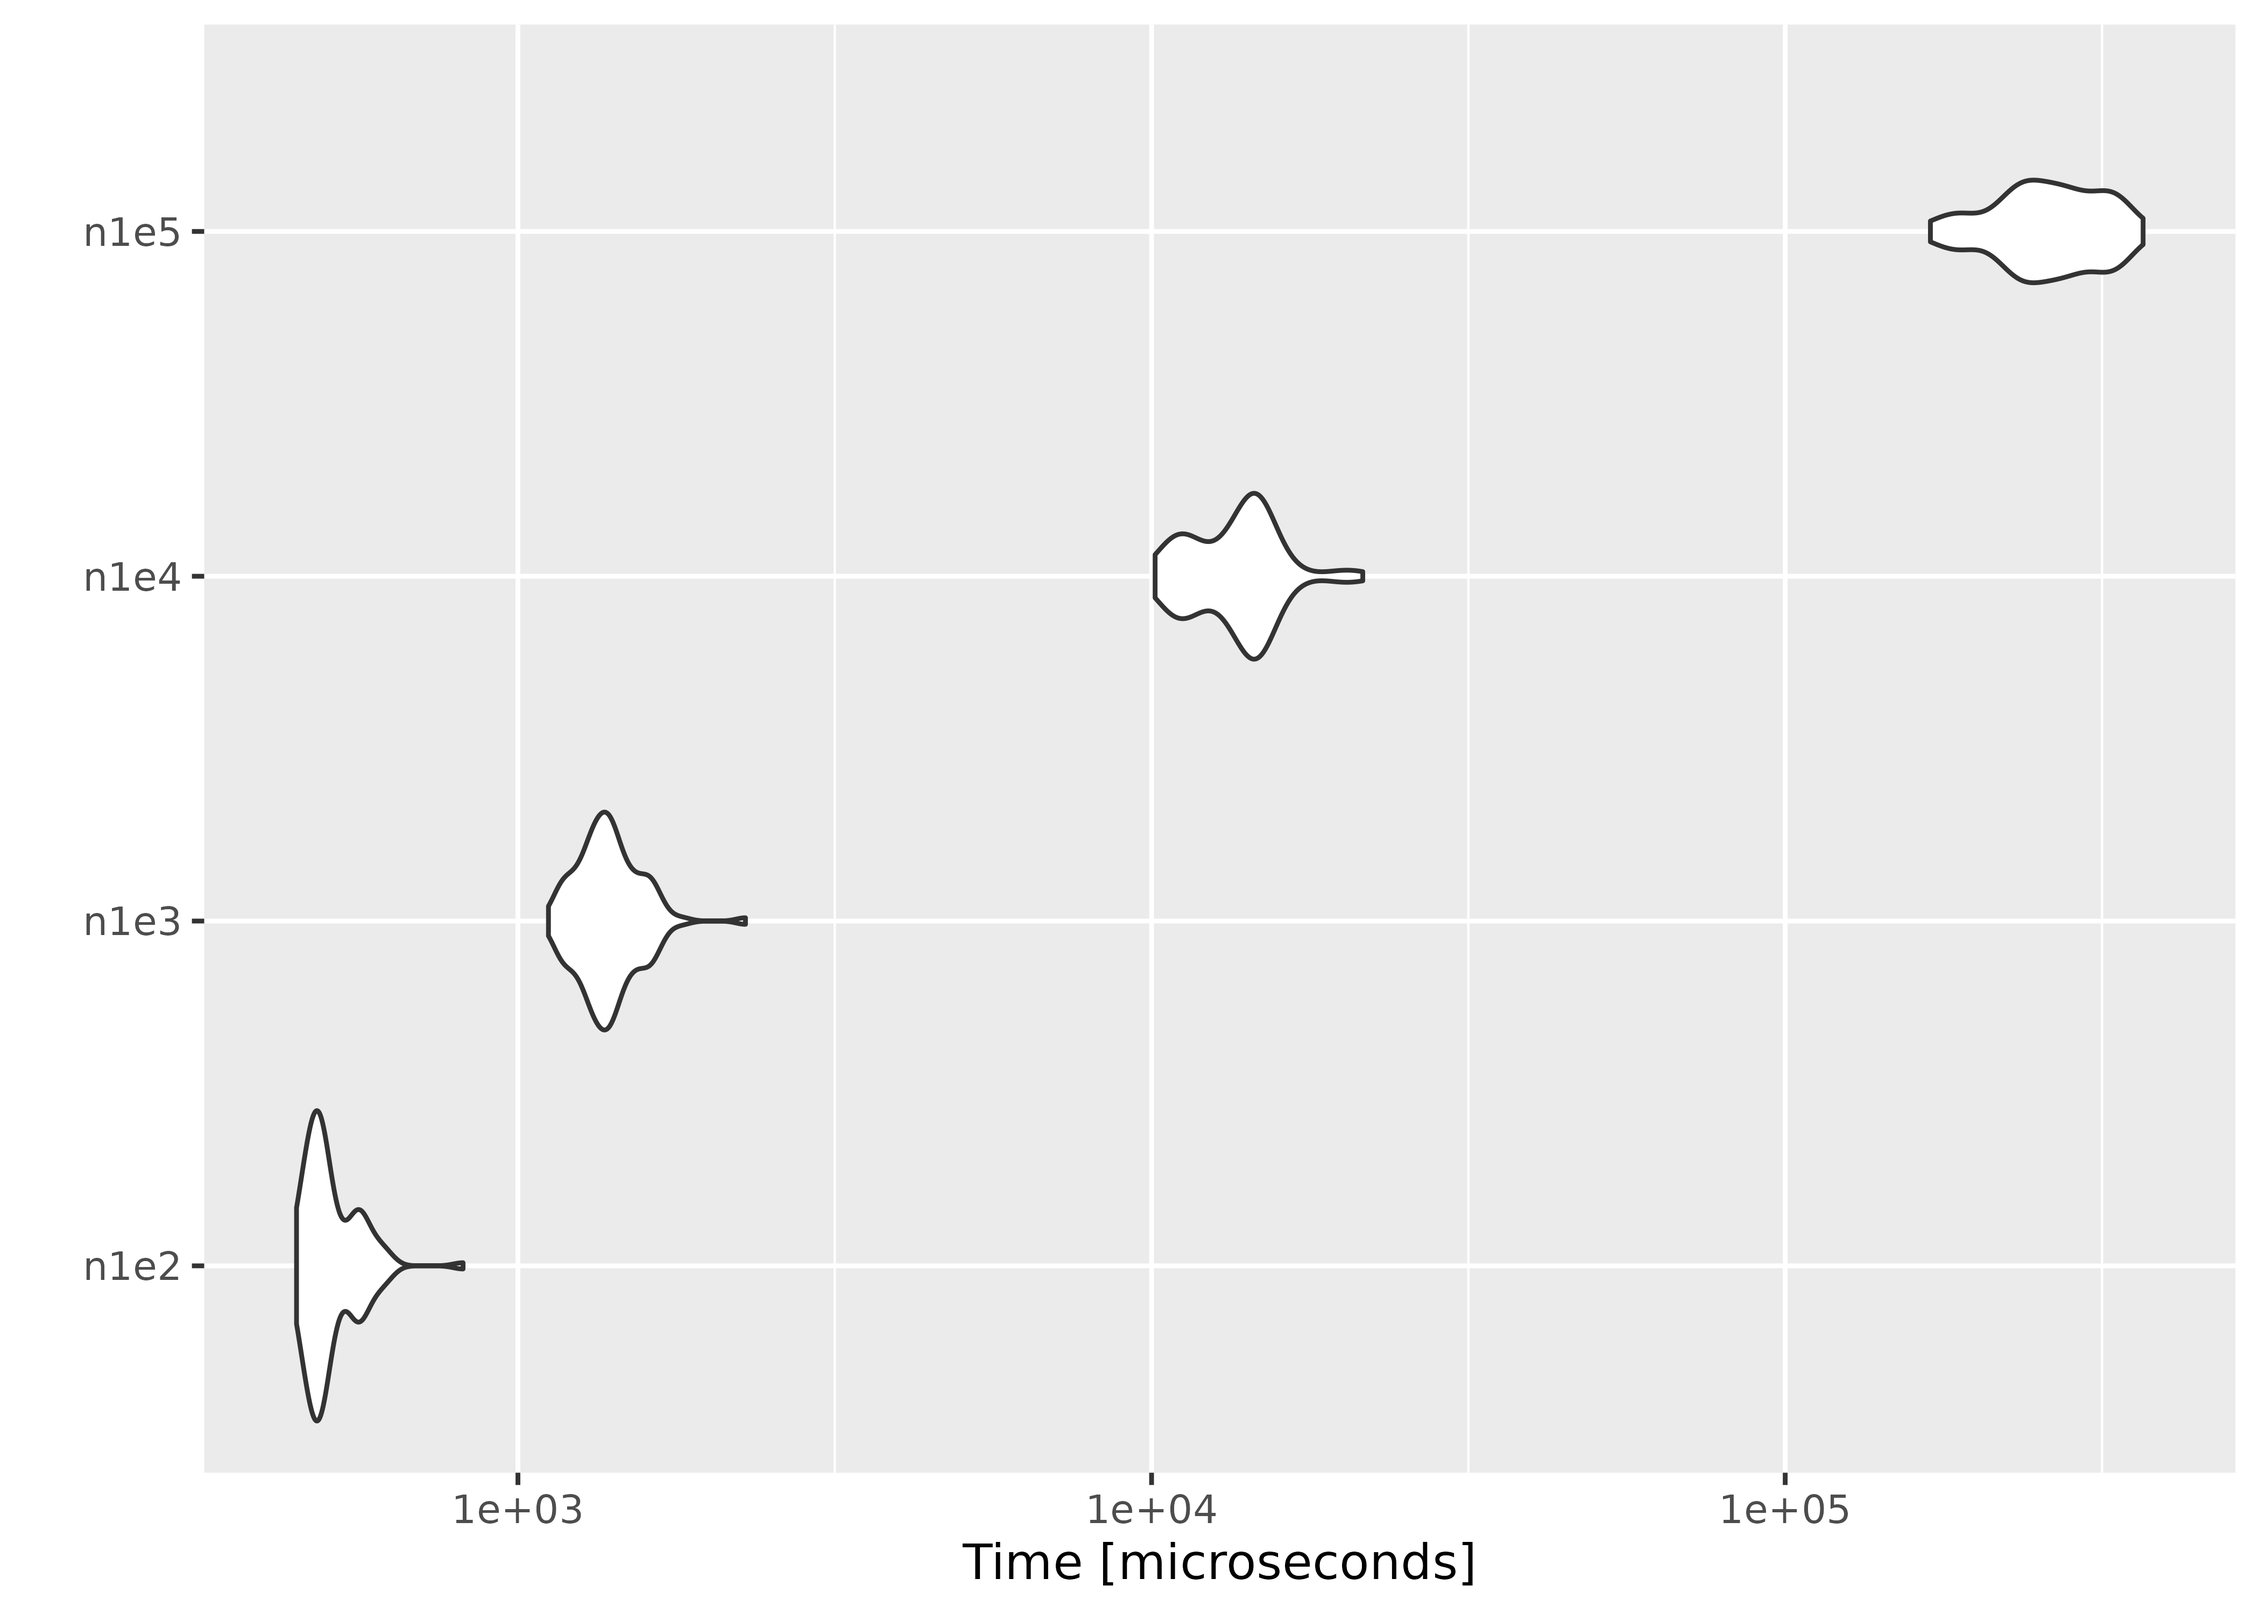
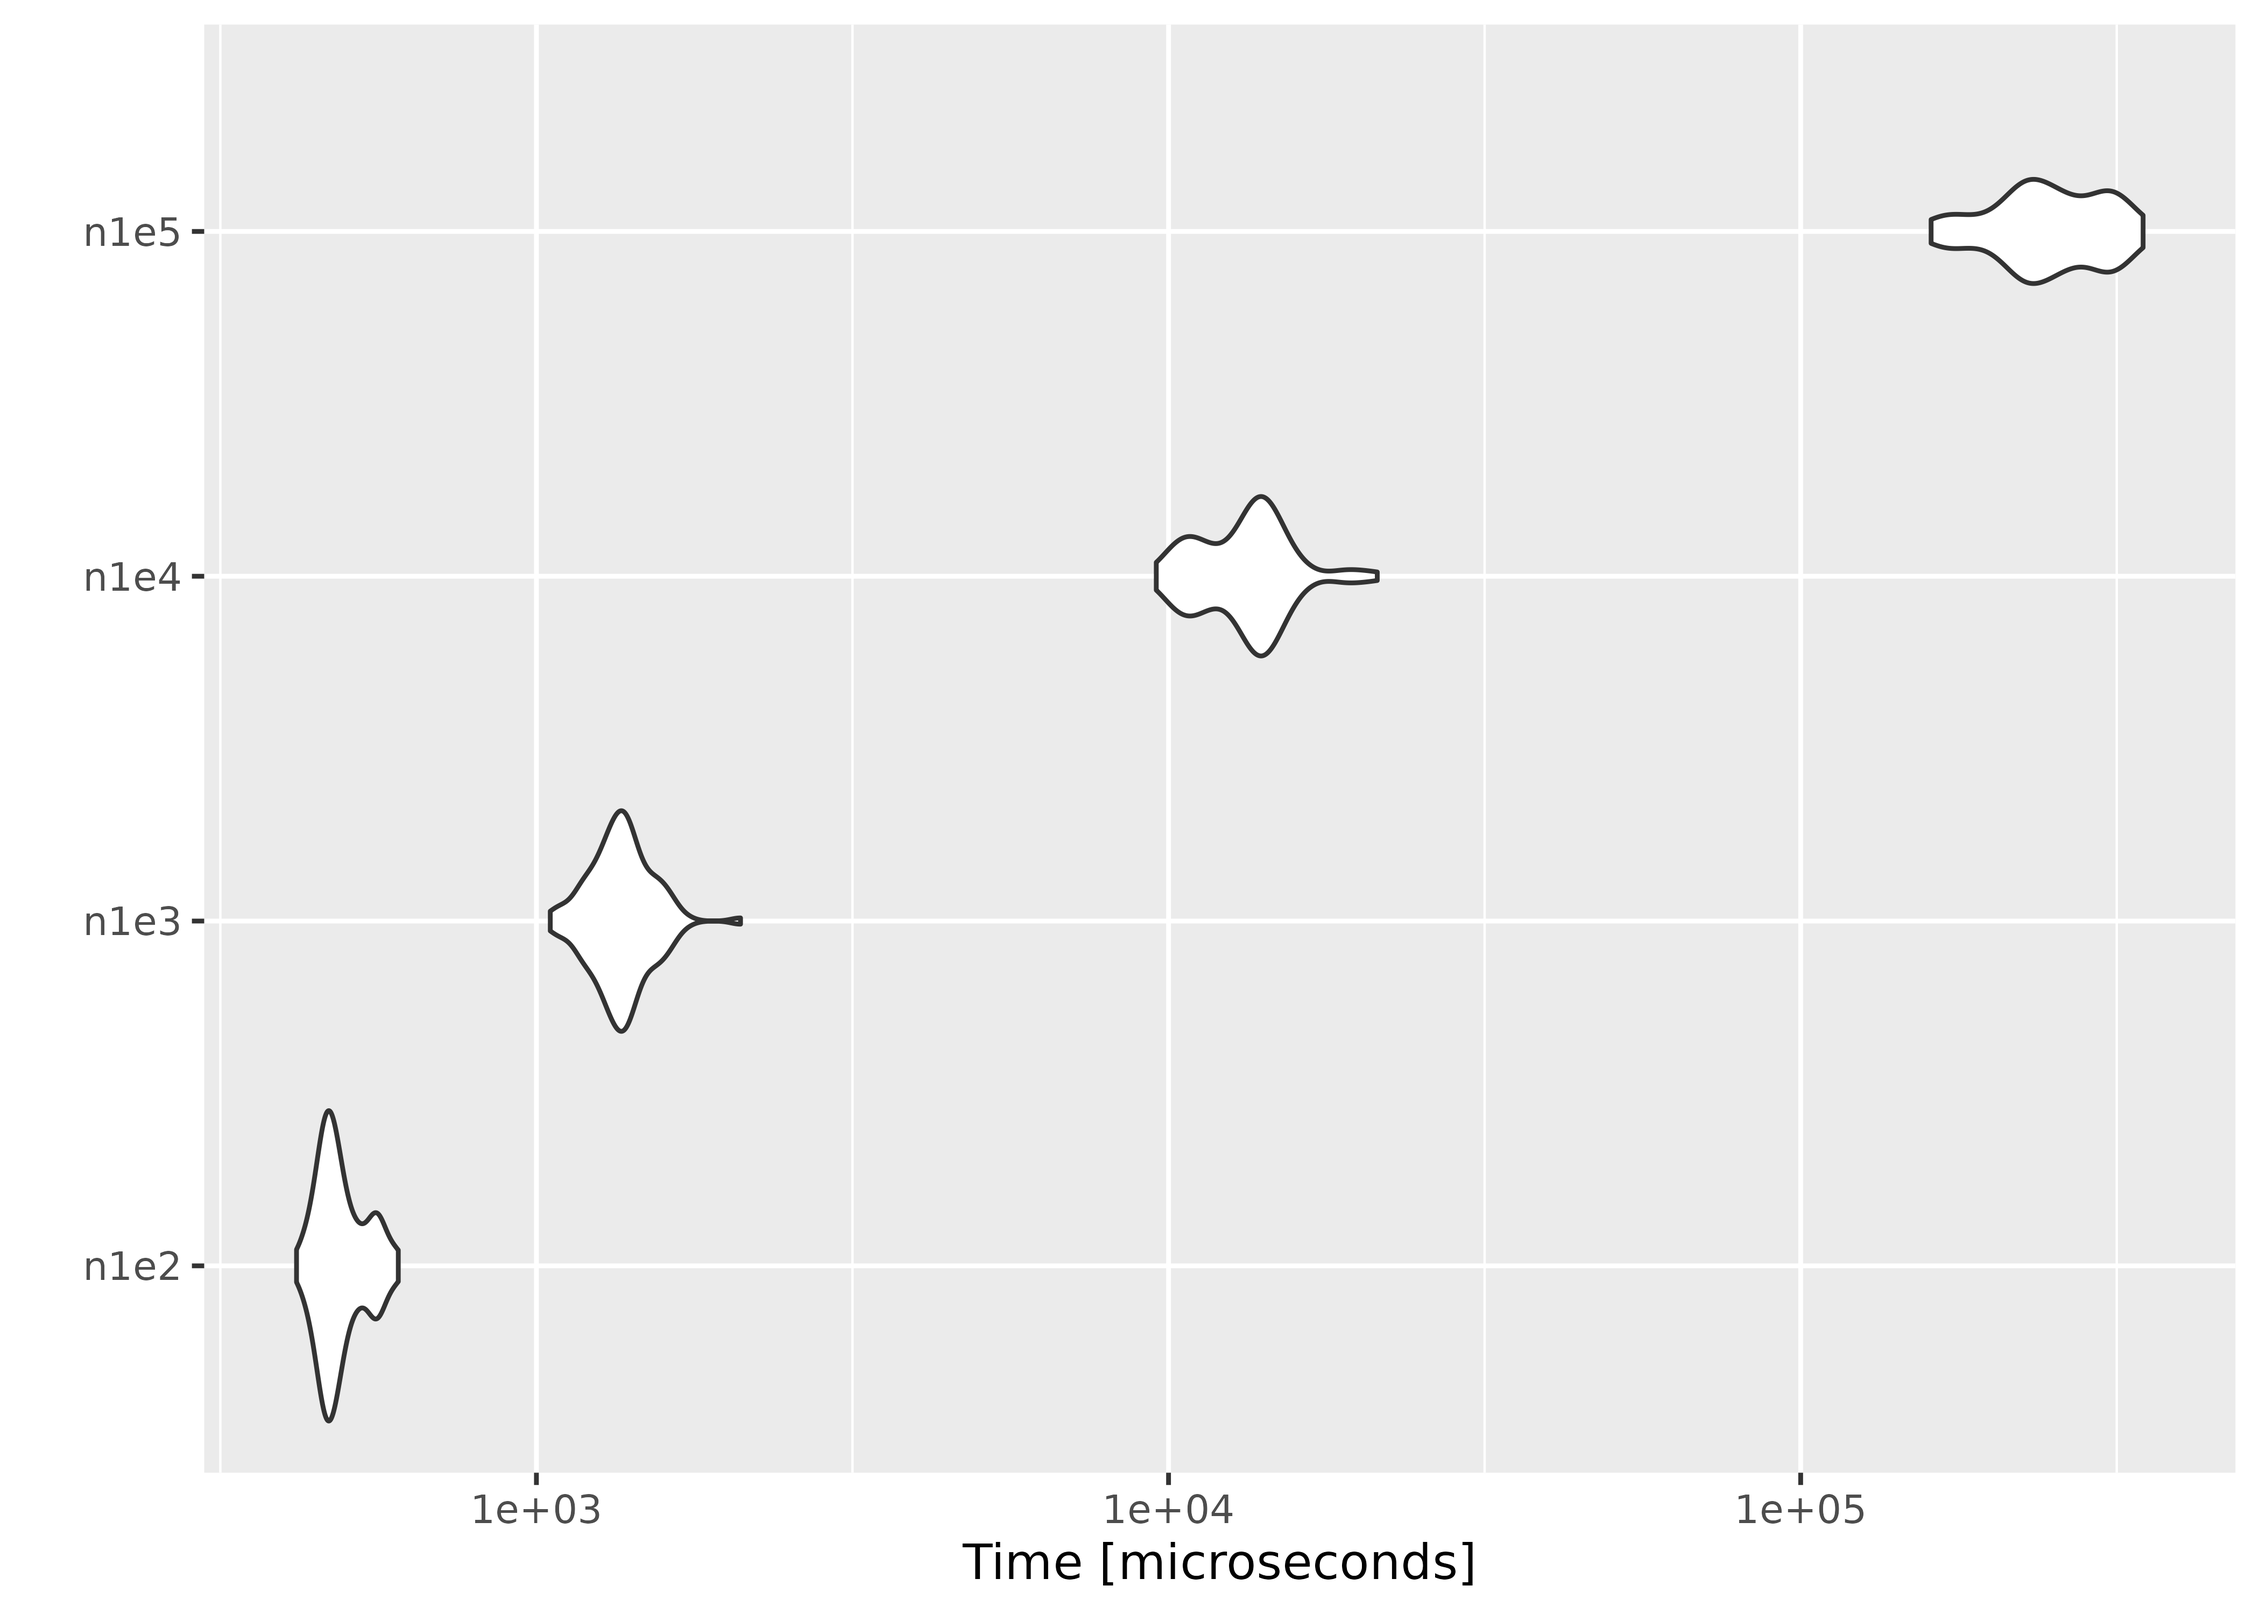
Deploying to gh-pages from @ ropensci/melt@6d5e894c2c8634a9614fa12e32527fdd4f16788b 🚀

diff --git a/index.html b/index.html
@@ -97,26 +97,26 @@
       </header><div class="row">
   <div class="contents col-md-9">
 <div class="section level1">
-<div class="page-header"><h1 id="melt---multiple-empirical-likelihood-tests-">melt - Multiple Empirical Likelihood Tests <a href="https://docs.ropensci.org/melt/"><img src="reference/figures/logo.png" align="right" height="139"></a>
-<a class="anchor" aria-label="anchor" href="#melt---multiple-empirical-likelihood-tests-"></a>
+<div class="page-header"><h1 id="melt">melt<a class="anchor" aria-label="anchor" href="#melt"></a>
 </h1></div>
+<p><a href="https://docs.ropensci.org/melt/"><img src="reference/figures/logo.png" align="right" height="139"></a></p>
 <!-- badges: start -->
 
 <div class="section level2">
 <h2 id="overview">Overview<a class="anchor" aria-label="anchor" href="#overview"></a>
 </h2>
-<p>Empirical likelihood enables a nonparametric, likelihood-driven style of inference without relying on assumptions frequently made in parametric models. Empirical likelihood-based tests are asymptotically pivotal and thus avoid explicit studentization. For this reason it is challenging to incorporate empirical likelihood methods directly into other packages that perform inferences for parametric models. The R package <a href="https://cran.r-project.org/package=melt" class="external-link">melt</a> aims to bridge the gap and provide a unified framework for data analysis with empirical likelihood methods. A collection of functions are available to perform multiple empirical likelihood tests and construct confidence intervals for linear and generalized linear models in R. The package offers an easy-to-use interface and flexibility in specifying hypotheses and calibration methods, extending the framework to simultaneous inferences. The core computational routines are implemented with the <a href="https://eigen.tuxfamily.org/index.php?title=Main_Page" class="external-link">Eigen</a> C++ library and <a href="https://cran.r-project.org/package=RcppEigen" class="external-link">RcppEigen</a> interface, with OpenMP for parallel computation. Details of the testing procedures are given in <a href="https://doi.org/10.1080/10485252.2023.2206919" class="external-link">Kim, MacEachern, and Peruggia (2023)</a>. This work was supported by the U.S. National Science Foundation under Grants No. <a href="https://www.nsf.gov/awardsearch/showAward?AWD_ID=1921523" class="external-link">SES-1921523</a> and <a href="https://www.nsf.gov/awardsearch/showAward?AWD_ID=2015552" class="external-link">DMS-2015552</a>.</p>
+<p>melt provides a unified framework for data analysis with empirical likelihood methods. A collection of functions are available to perform multiple empirical likelihood tests and construct confidence intervals for various models in ‘R’. It offers an easy-to-use interface and flexibility in specifying hypotheses and calibration methods, extending the framework to simultaneous inferences. The core computational routines are implemented with the ‘Eigen’ ‘C++’ library and ‘RcppEigen’ interface, with ‘OpenMP’ for parallel computation. Details of the testing procedures are given in <a href="https://doi.org/10.1080/10485252.2023.2206919" class="external-link">Kim, MacEachern, and Peruggia (2023)</a>. This work was supported by the U.S. National Science Foundation under Grants No. <a href="https://www.nsf.gov/awardsearch/showAward?AWD_ID=1921523" class="external-link">SES-1921523</a> and <a href="https://www.nsf.gov/awardsearch/showAward?AWD_ID=2015552" class="external-link">DMS-2015552</a>.</p>
 </div>
 <div class="section level2">
 <h2 id="installation">Installation<a class="anchor" aria-label="anchor" href="#installation"></a>
 </h2>
-<p>You can install the latest stable release from <a href="https://cran.r-project.org/package=melt" class="external-link">CRAN</a>.</p>
+<p>You can install the latest stable release of melt from CRAN.</p>
 <div class="sourceCode" id="cb1"><pre class="downlit sourceCode r">
 <code class="sourceCode R"><span><span class="fu"><a href="https://rdrr.io/r/utils/install.packages.html" class="external-link">install.packages</a></span><span class="op">(</span><span class="st">"melt"</span><span class="op">)</span></span></code></pre></div>
-<p>You can install the latest development version from <a href="https://github.com/ropensci/melt" class="external-link">GitHub</a> or <a href="http://ropensci.r-universe.dev/ui/#package:melt" class="external-link">R-universe</a>.</p>
+<p>You can install the development version of melt from GitHub or <a href="http://ropensci.r-universe.dev/ui/#package:melt" class="external-link">R-universe</a>.</p>
 <div class="sourceCode" id="cb2"><pre class="downlit sourceCode r">
-<code class="sourceCode R"><span><span class="co"># install.packages("devtools")</span></span>
-<span><span class="fu">devtools</span><span class="fu">::</span><span class="fu">install_github</span><span class="op">(</span><span class="st">"ropensci/melt"</span><span class="op">)</span></span></code></pre></div>
+<code class="sourceCode R"><span><span class="co"># install.packages("pak")</span></span>
+<span><span class="fu">pak</span><span class="fu">::</span><span class="fu"><a href="https://pak.r-lib.org/reference/pak.html" class="external-link">pak</a></span><span class="op">(</span><span class="st">"ropensci/melt"</span><span class="op">)</span></span></code></pre></div>
 <div class="sourceCode" id="cb3"><pre class="downlit sourceCode r">
 <code class="sourceCode R"><span><span class="fu"><a href="https://rdrr.io/r/utils/install.packages.html" class="external-link">install.packages</a></span><span class="op">(</span><span class="st">"melt"</span>, repos <span class="op">=</span> <span class="st">"https://ropensci.r-universe.dev"</span><span class="op">)</span></span></code></pre></div>
 </div>
@@ -125,6 +125,8 @@
 </h2>
 <p>melt provides an intuitive API for performing the most common data analysis tasks:</p>
 <ul>
+<li>
+<code><a href="reference/el_mean.html">el_mean()</a></code> computes empirical likelihood for the mean.</li>
 <li>
 <code><a href="reference/el_lm.html">el_lm()</a></code> fits a linear model with empirical likelihood.</li>
 <li>

diff --git a/articles/performance.html b/articles/performance.html
@@ -137,11 +137,11 @@ parameters increases with the number of observations fixed.</p>
 <div class="sourceCode" id="cb3"><pre class="downlit sourceCode r">
 <code class="sourceCode R"><span><span class="va">result</span></span>
 <span><span class="co">#&gt; Unit: microseconds</span></span>
-<span><span class="co">#&gt;  expr        min         lq        mean     median          uq        max neval</span></span>
-<span><span class="co">#&gt;  n1e2    447.294    472.962    508.4516    489.588    546.5135    819.248   100</span></span>
-<span><span class="co">#&gt;  n1e3   1117.334   1297.278   1398.9919   1382.077   1475.8670   2286.303   100</span></span>
-<span><span class="co">#&gt;  n1e4  10129.867  11621.940  13694.6736  14026.307  14799.9800  21544.600   100</span></span>
-<span><span class="co">#&gt;  n1e5 169498.843 230814.651 263779.2173 262377.576 298818.9065 367144.916   100</span></span>
+<span><span class="co">#&gt;  expr        min         lq        mean      median         uq        max neval</span></span>
+<span><span class="co">#&gt;  n1e2    417.358    462.707    491.2848    477.9655    517.279    604.627   100</span></span>
+<span><span class="co">#&gt;  n1e3   1051.770   1266.425   1369.4850   1365.7300   1443.581   2103.289   100</span></span>
+<span><span class="co">#&gt;  n1e4   9562.922  11397.130  13366.0708  13641.3775  14498.520  21388.440   100</span></span>
+<span><span class="co">#&gt;  n1e5 160819.720 222245.009 251211.2933 244659.1315 301059.446 348104.451   100</span></span>
 <span><span class="fu"><a href="https://ggplot2.tidyverse.org/reference/autoplot.html" class="external-link">autoplot</a></span><span class="op">(</span><span class="va">result</span><span class="op">)</span></span></code></pre></div>
 <p><img src="performance_files/figure-html/unnamed-chunk-3-1.png" width="100%" style="display: block; margin: auto;"></p>
 </div>
@@ -174,10 +174,10 @@ likelihood at zero vectors of different sizes.</p>
 <code class="sourceCode R"><span><span class="va">result2</span></span>
 <span><span class="co">#&gt; Unit: microseconds</span></span>
 <span><span class="co">#&gt;  expr        min          lq        mean      median         uq        max</span></span>
-<span><span class="co">#&gt;    p5    698.773    753.1645    783.8288    781.2115    812.731    931.507</span></span>
-<span><span class="co">#&gt;   p25   2621.107   2665.2745   2789.9868   2696.6430   2762.546   7459.328</span></span>
-<span><span class="co">#&gt;  p100  21544.400  21844.0735  25646.6813  24068.9620  26713.959  42431.534</span></span>
-<span><span class="co">#&gt;  p400 253743.147 276684.2755 304127.5371 291394.8295 319637.538 457070.493</span></span>
+<span><span class="co">#&gt;    p5    665.630    734.8495    778.0747    771.7735    812.980   1122.582</span></span>
+<span><span class="co">#&gt;   p25   2439.065   2615.0135   2753.5179   2687.3285   2737.021   6926.839</span></span>
+<span><span class="co">#&gt;  p100  20480.558  21684.0410  25312.3843  23693.4960  26651.052  42175.359</span></span>
+<span><span class="co">#&gt;  p400 250878.136 271902.4930 297840.5865 285271.9490 309443.752 448736.563</span></span>
 <span><span class="co">#&gt;  neval</span></span>
 <span><span class="co">#&gt;    100</span></span>
 <span><span class="co">#&gt;    100</span></span>

diff --git a/authors.html b/authors.html
@@ -85,21 +85,25 @@
     <div class="section level2 citation-section">
     <div>
       <h1 id="citation">Citation</h1>
-      <small class="dont-index">Source: <a href="https://github.com/ropensci/melt/blob/HEAD/DESCRIPTION" class="external-link"><code>DESCRIPTION</code></a></small>
+      <small class="dont-index">Source: <a href="https://github.com/ropensci/melt/blob/HEAD/inst/CITATION" class="external-link"><code>inst/CITATION</code></a></small>
     </div>
     </div>
 
 
-    <p>Kim E (2024).
-<em>melt: Multiple Empirical Likelihood Tests</em>.
-R package version 1.10.0.9000, https://github.com/ropensci/melt, <a href="https://docs.ropensci.org/melt/">https://docs.ropensci.org/melt/</a>. 
+    <p>Kim E, MacEachern SN, Peruggia M (2024).
+“melt: Multiple Empirical Likelihood Tests in R.”
+<em>Journal of Statistical Software</em>, <b>108</b>(5), 1–33.
+<a href="https://doi.org/10.18637/jss.v108.i05" class="external-link">doi:10.18637/jss.v108.i05</a>. 
 </p>
-    <pre>@Manual{,
-  title = {melt: Multiple Empirical Likelihood Tests},
-  author = {Eunseop Kim},
+    <pre>@Article{,
+  title = {{melt}: Multiple Empirical Likelihood Tests in {R}},
+  author = {Eunseop Kim and Steven N. MacEachern and Mario Peruggia},
+  journal = {Journal of Statistical Software},
   year = {2024},
-  note = {R package version 1.10.0.9000, https://github.com/ropensci/melt},
-  url = {https://docs.ropensci.org/melt/},
+  volume = {108},
+  number = {5},
+  pages = {1--33},
+  doi = {10.18637/jss.v108.i05},
 }</pre>
 
   </div>
